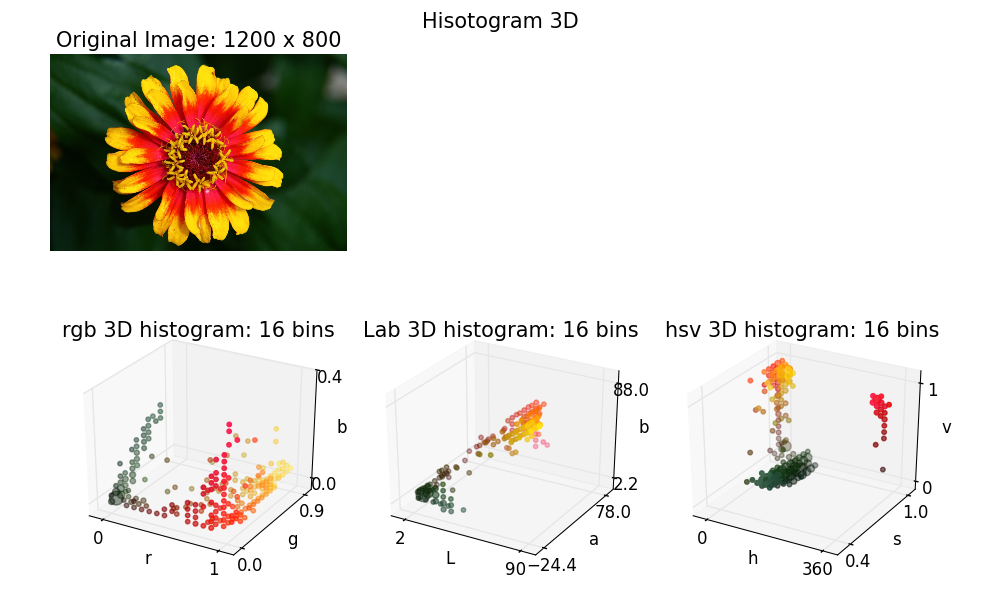
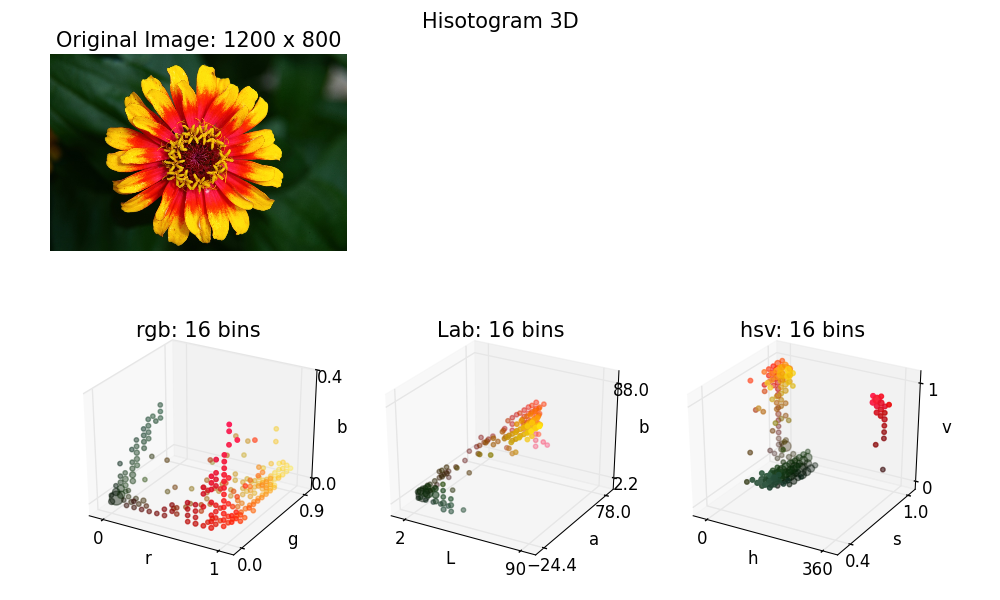
Update results.

Changed region(s): [[0.372, 0.54, 0.961, 0.57], [0.062, 0.54, 0.341, 0.57]]

diff --git a/color_histogram/results/hist_3d.py b/color_histogram/results/hist_3d.py
@@ -24,7 +24,7 @@ from color_histogram.util.timer import timing_func
 def plotHistogram3D(C_32F, color_space, ax):
     font_size = 15
     num_bins = 16
-    plt.title("%s 3D histogram: %s bins" % (color_space, num_bins), fontsize=font_size)
+    plt.title("%s: %s bins" % (color_space, num_bins), fontsize=font_size)
 
     hist3D = Hist3D(C_32F, num_bins=num_bins, color_space=color_space)
     hist3D.plot(ax)
